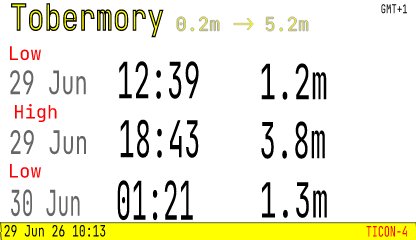
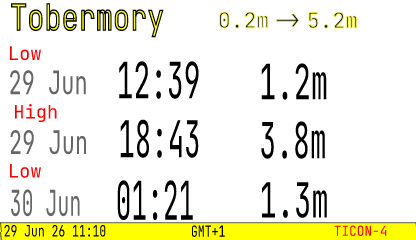
0.4.5

diff --git a/CHANGELOG.md b/CHANGELOG.md
@@ -1,3 +1,6 @@
+# 0.4.5
+- Updated `tide.svg` layout
+- Added SignalK standard Github Actions workflow
 # 0.4.4
 - Update `node-ble` to new packaging
 # 0.4.3